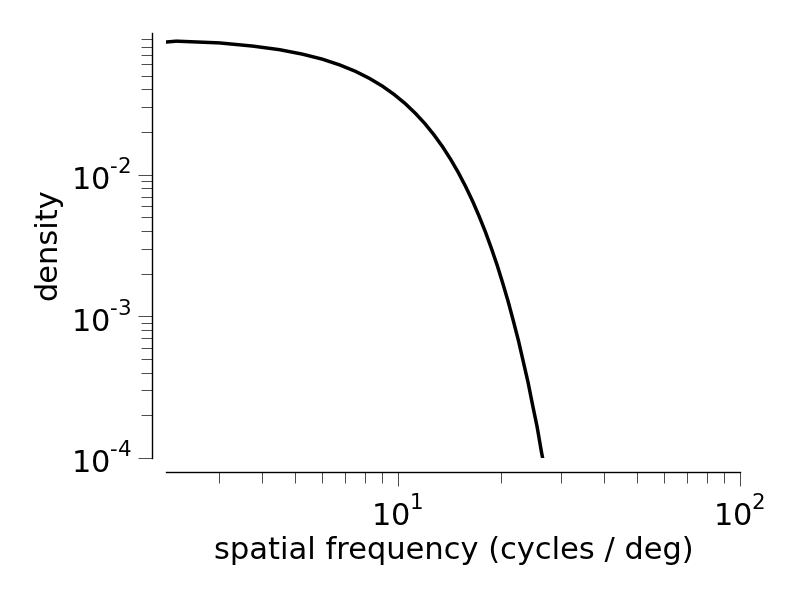
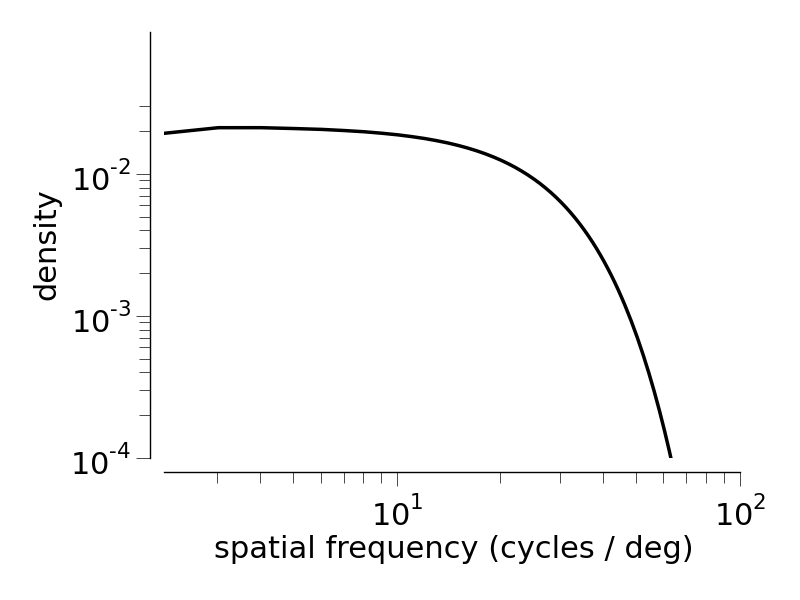
update DoG, working properly

diff --git a/emmetrop/cones/dogRFields.py b/emmetrop/cones/dogRFields.py
@@ -17,12 +17,12 @@ class ConeReceptiveFields(object):
                  location = None):
         """
         """
-        if len(freqs) != len(cone_spacing):
-            raise ValueError("Sorry, length of location must match \
-            cone_spacing")
         if not location:
             location = ['periph', 'fovea']
             
+        if len(location) != len(cone_spacing):
+            raise ValueError("Sorry, length of location must match \
+            cone_spacing")            
         self.genReceptiveFields(freqs, cone_spacing, location)
             
     def genReceptiveFields(self, freqs, cone_spacing, location):
@@ -44,13 +44,7 @@ class ConeReceptiveFields(object):
         FFT_RF = {}
         RF_SPLINE = {}
         RField = {}
-    
-        RF_DOG = findSpacing(Xvals, cone_spacing)
-        FFT_RF = Fourier(RF_DOG, N)
-        length = np.floor(FFT_RF.shape[0] / 2.) + 1
-        RField = normRField(freqs, Xvals[length:] * 60,
-                                 FFT_RF[length:])
-
+        
         for i, loc in enumerate(location):
             
             RF_DOG[loc] = findSpacing(Xvals, cone_spacing[i])
